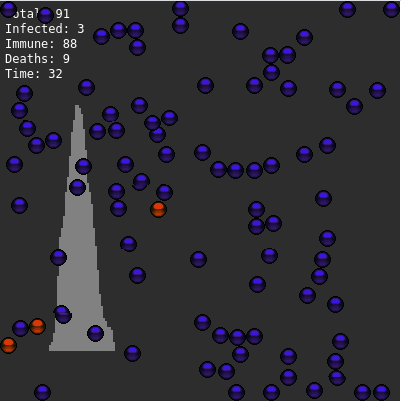
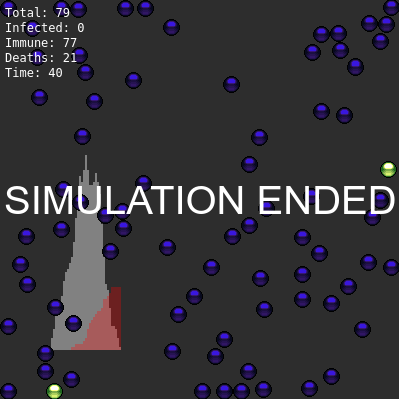
graphs

diff --git a/src/phaser/scenes/update.js b/src/phaser/scenes/update.js
@@ -11,7 +11,7 @@ export function update() {
   this.timeSinceStart = currentTime() - this.startTime;
   const subjects = this.subjectsGroup.getChildren();
   const deathsCount = settings.subjects - subjects.length;
-  const deathChance = settings.deathChance;
+  const infectedCount = subjects.filter(b => b.details.infected).length;
 
   // direct subjects movement and current statuses
   subjects.forEach((subject) => {
@@ -24,10 +24,13 @@ export function update() {
         // ensure we have an infection time
         subject.details.infectedTime = currentTime();
 
+        // death chance also depends on stress of the system
+        const deathChance = settings.deathChance * ((50 + infectedCount - settings.icu) / 50);
+
         // define if will eventually die
         // if is infected, set a death sentence
         if (rollChance(deathChance)) {
-          subject.details.dieTime = currentTime() + getRandomInt(1, settings.maxTimeToDeath);
+          subject.details.dieTime = currentTime() + getRandomInt(2, settings.maxTimeToDeath);
         }
       }
 
@@ -99,7 +102,6 @@ export function update() {
   });
 
   // update status text if required
-  const infectedCount = subjects.filter(b => b.details.infected).length;
   const immuneCount = subjects.filter(b => b.details.immune).length;
   const updatedStatusText = `Total: ${subjects.length}
 Infected: ${infectedCount}

diff --git a/src/phaser/scenes/create.js b/src/phaser/scenes/create.js
@@ -54,7 +54,7 @@ export function create() {
 
     // we have a match of an infected with a susceptible subject, infect
     if (infected && susceptible) {
-      susceptible.details.infected = true;
+      susceptible.details.infected = rollChance(settings.transmissionChance);
     }
 
   });

diff --git a/src/phaser/settings.js b/src/phaser/settings.js
@@ -4,10 +4,12 @@ export default {
   subjects: 100,
   subjectsMovementRate: 20,
   initialInfectionChance: 3,
-  transmissionChance: 60,
+  transmissionChance: 50,
 
   showSymptomsTime: 5,
-  cureTime: 15,
+  cureTime: 13,
+
+  icu: 10,
 
   deathChance: 10,
   maxTimeToDeath: 8,
